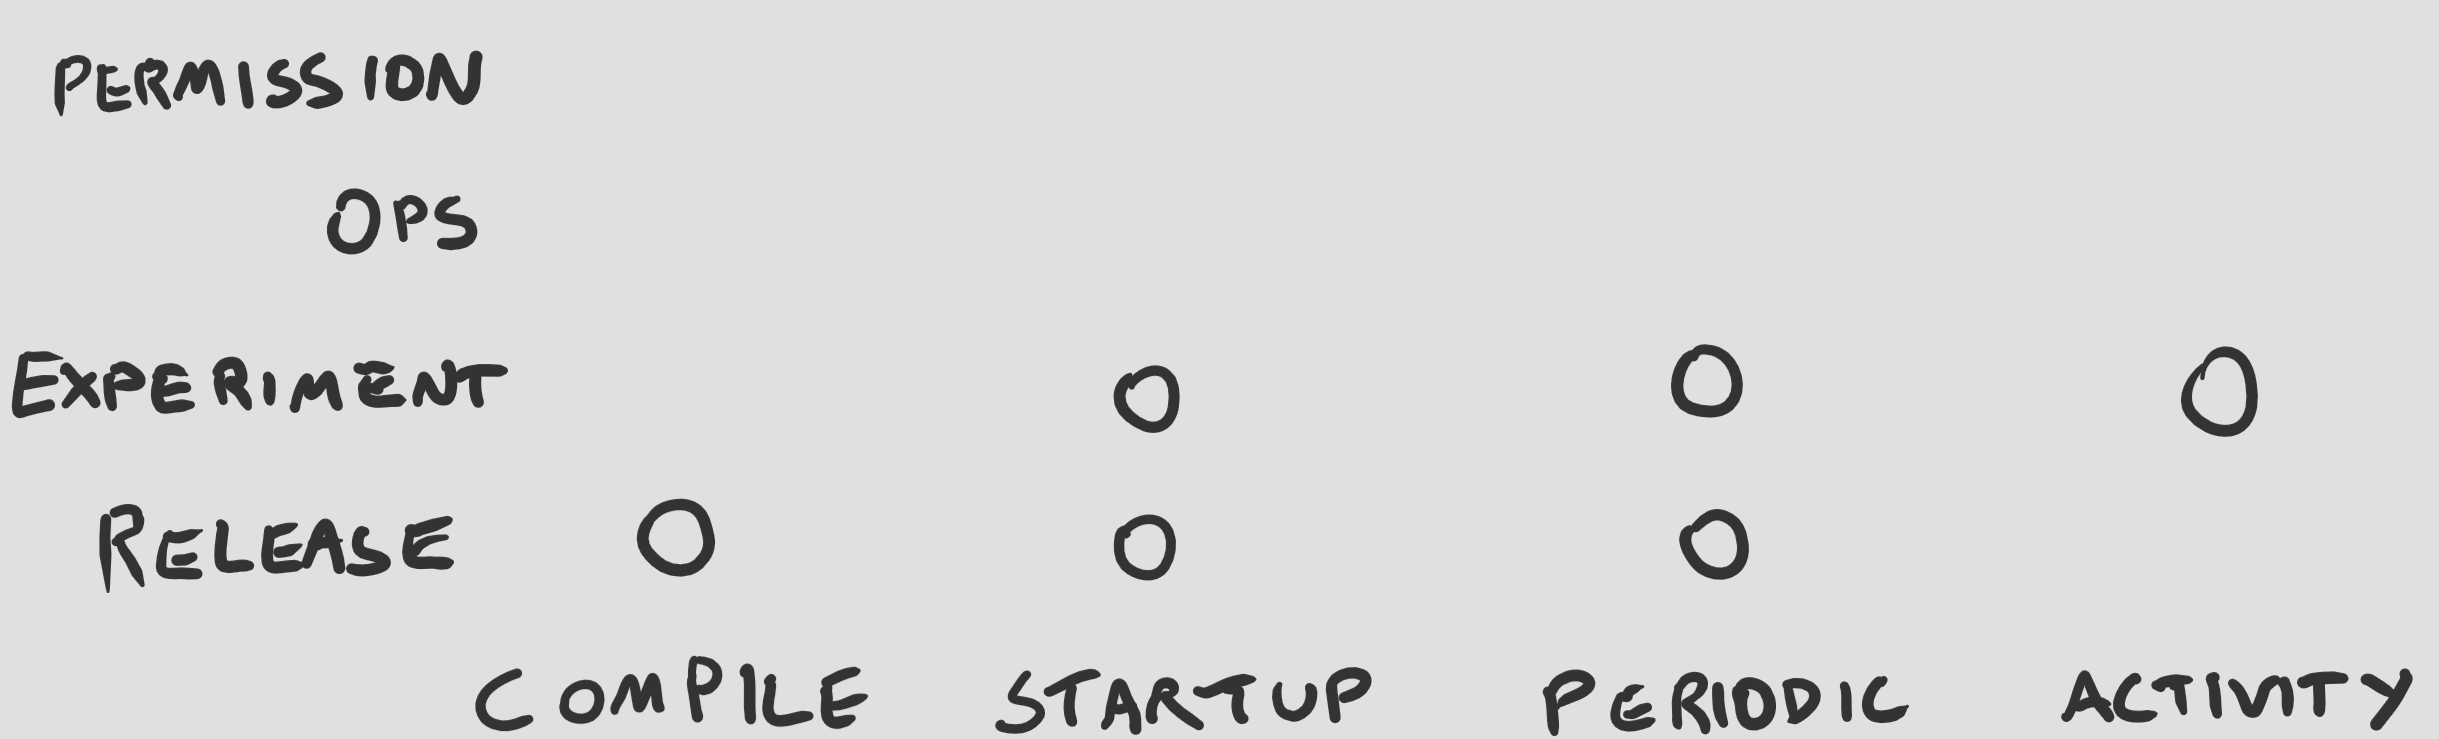
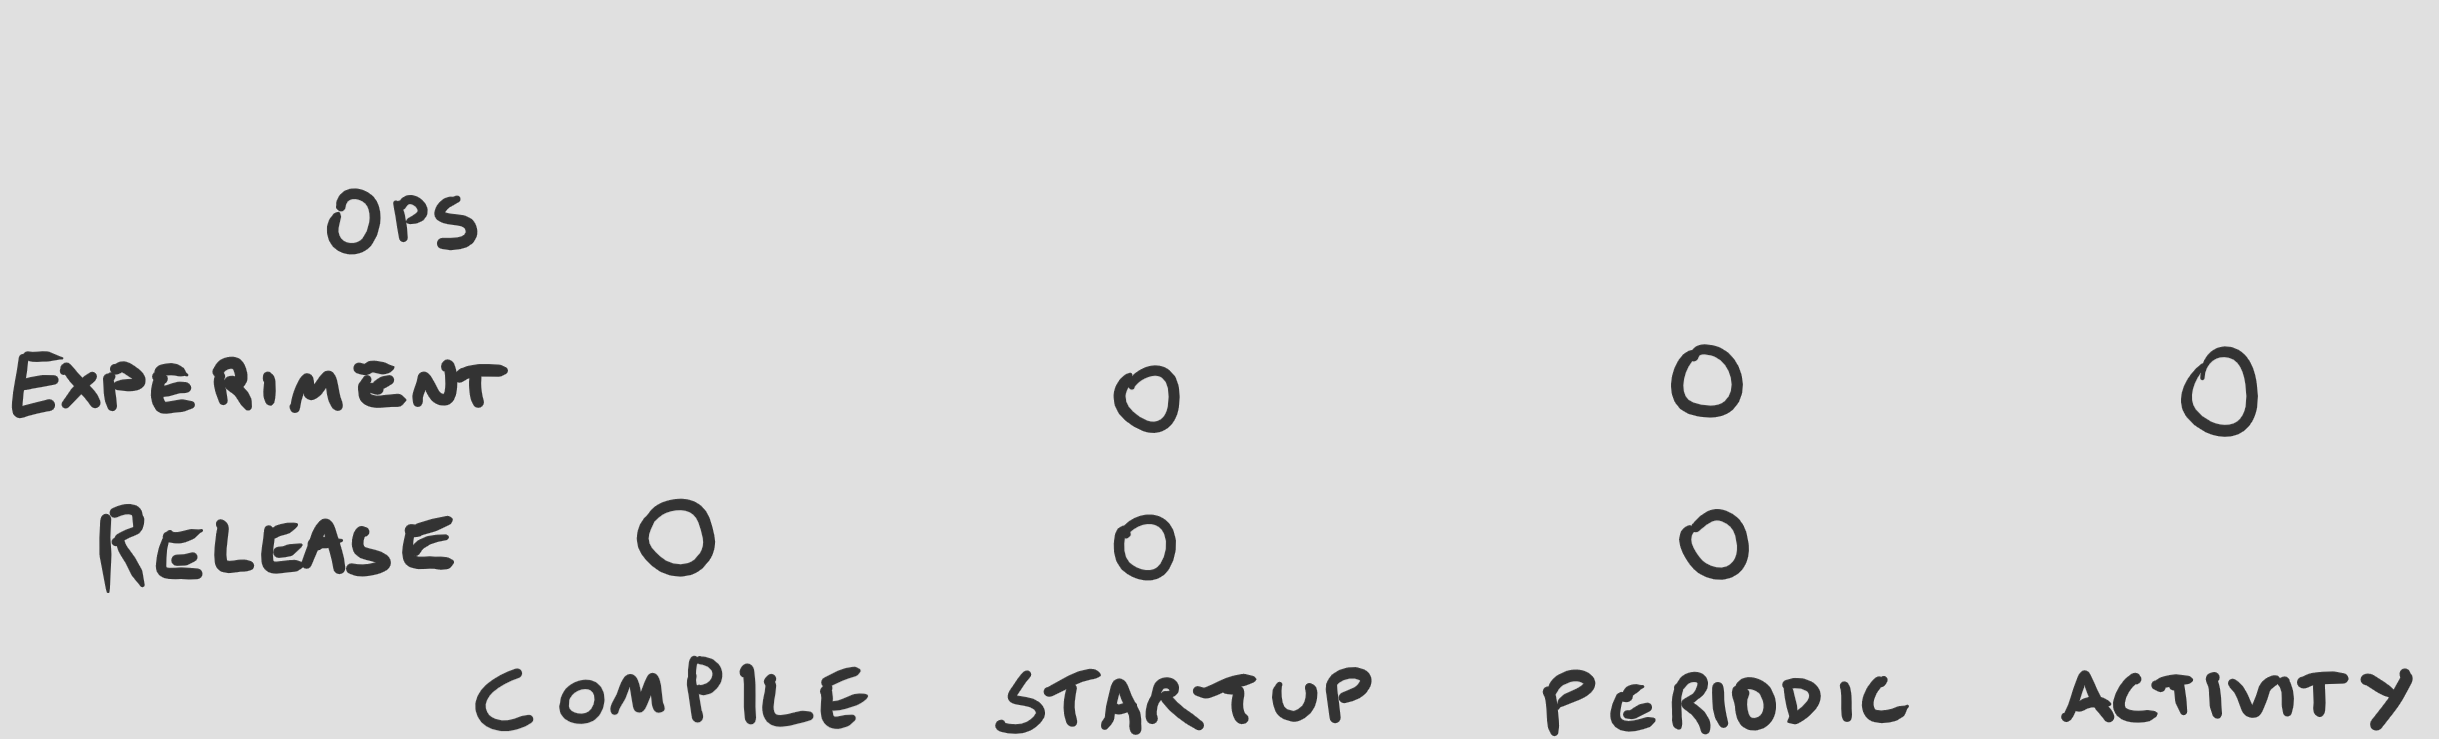
toggles: reorder most of the things...

Changed region(s): [[0.0, 0.0622, 0.2181, 0.1556]]

diff --git a/feature-toggles/slides.md b/feature-toggles/slides.md
@@ -142,20 +142,10 @@ Note:
 
 ![hp-branching-trunk-based](img/hp-branching-tbd.png) <!-- .element: class="no-border" -->
 Note:
-* compile-time to run-time toggles
+* compile-time to startup toggles
 * trunk based development
 * Single branch
 * config file with printer capabilities
-
-
-
->Getting rid of code branching will often be your biggest efficiency gain
-
-https://itrevolution.com/the-amazing-devops-transformation-of-the-hp-laserjet-firmware-team-gary-gruver/ <!-- .element: class="attribution" -->
-Note:
-* using branches as feature toggles
-* toggles were fairly static, so a config file in the repo
-* branching by abstraction
 
 
 
@@ -167,104 +157,6 @@ Note:
 
 
 
-## Toggle Types
-Note:
-* many dimensions to toggles
-* how often it changes (static -> dynamic)
-* how specific (user/group/all)
-
-
-
-![toggle-table](img/toggle-table-release.png)  <!-- .element: class="no-border" -->
-<!-- .slide: data-transition="slide-in none-out" -->
-Note:
-* the feature toggle
-
-
-
-![toggle-table](img/toggle-table-experiment.png)  <!-- .element: class="no-border" -->
-<!-- .slide: data-transition="none" -->
-Note:
-* AB testing
-
-
-
-![toggle-table](img/toggle-table-ops.png)  <!-- .element: class="no-border" -->
-<!-- .slide: data-transition="none" -->
-Note:
-* Performance
-* Possibly automated toggling
-* (the only) longer life toggle
-
-
-
-![toggle-table](img/toggle-table-permission.png)  <!-- .element: class="no-border" -->
-<!-- .slide: data-transition="none" -->
-Note:
-* can a user do something?
-
-
-
-![toggle-table](img/toggle-table-time.png)  <!-- .element: class="no-border" -->
-<!-- .slide: data-transition="none" -->
-Note:
-* compile: rare. sqlprofiler, things CANNOT be in prod
-* startup: microservices > websites
-* periodic: background updated
-* activity: checked every action, uses background probably
-
-
-
-![toggle-table](img/toggle-table-time-release.png)  <!-- .element: class="no-border" -->
-<!-- .slide: data-transition="none" -->
-Note:
-* compile time not great, needs redeploy
-* startup: change toggle, bounce service
-* periodic: change toggle, wait
-
-
-
-![toggle-table](img/toggle-table-time-experiment.png)  <!-- .element: class="no-border" -->
-<!-- .slide: data-transition="none" -->
-Note:
-* to a subset of users, usually
-* scale (risk): large=activity, small=startup
-
-
-
-![toggle-table](img/toggle-table-time-ops.png)  <!-- .element: class="no-border" -->
-<!-- .slide: data-transition="none" -->
-Note:
-* effects everyone
-* periodic check most likely
-
-
-
-![toggle-table](img/toggle-table-time-permission.png)  <!-- .element: class="no-border" -->
-<!-- .slide: data-transition="none" -->
-Note:
-* can a user/group do something?
-* activity/background
-* but...
-
-
-
-![toggle-table](img/toggle-table-time-permission-no.png)  <!-- .element: class="no-border" -->
-<!-- .slide: data-transition="none slide-out" -->
-Note:
-* dont!
-* toggles != authorization
-
-
-
-# Toggles are bad because...
-Note:
-* common reasons
-* horror stories covered!
-
-
-
-### ...I dont want this everywhere
 ```csharp
 if (_toggles.PowerPeg.Enabled)) {
     // ...
@@ -282,13 +174,43 @@ Note:
 
 
 ```csharp
-var container = new Container(c =>
+public interface IEmailConnector
 {
-    if (_toggles.EmailDispatchQueue.Enabled)
-        c.For<IEmailConnector>().Use<RabbitMqConnector>();
-    else
-        c.For<IEmailConnector>().Use<WebServiceConnector>();
-});
+    Task Dispatch(EmailMessage message);
+}
+```
+
+```csharp
+public class SoapServiceConnector : IEmailConnector
+{
+    // ...
+}
+
+public class RabbitMqConnector : IEmailConnector
+{
+    // ...
+}
+```
+<!-- .element: class="fragment" -->
+
+
+
+```csharp
+public class Startup
+{
+    public void Configure(IAppBuilder app)
+    {
+        var container = new Container(c =>
+        {
+            if (_toggles.EmailDispatchQueue.Enabled)
+                c.For<IEmailConnector>().Use<RabbitMqConnector>();
+            else
+                c.For<IEmailConnector>().Use<WebServiceConnector>();
+        });
+
+        // ...
+    }
+}
 ```
 Note:
 * great for startup toggles!
@@ -322,11 +244,14 @@ Note:
 
 
 ```javascript
-import  { toggled } from 'react-toggles' //this doesn't exist!
+import { toggled } from 'react-toggles' //this doesn't exist!
 
-const OneClickBuyButton = buyItem => <a onClick={buyItem}>Buy Now!</a>;
+const OneClickBuyButton = ({ buyItem, item }) =>
+    <a style="button highlight" onClick={() => buyItem(item.id)}>
+        Buy Now!
+    </a>
 
-export default toggled(toggles.OneClickEnabled)(OneClickBuyingButton)
+export default toggled(toggles.OneClickEnabled)(OneClickBuyButton)
 ```
 Note:
 * React
@@ -334,60 +259,62 @@ Note:
 
 
 
-# Testing is harder
+```javascript
+import { toggled } from 'react-toggles' //this doesn't exist!
+import OneClickBuyButton from './oneClickBuy'
+
+export default toggled(toggles.OneClickEnabled)(OneClickBuyButton)
+```
 Note:
-Is it?
+* React
+* react-toggles is invented!
 
 
 
-![testing-existing](img/testing-existing.png) <!-- .element: class="no-border" -->
+![toggle-table](img/toggle-table-time.png)  <!-- .element: class="no-border" -->
 <!-- .slide: data-transition="out-none" -->
 Note:
-* greg young: tests are immutable
-* old tests don't change (toggle off)
+* Release: switch everyone/group
+* Feature: switch for subset. AB testing.
+* Ops: performance
+* Permission:
+  * switch for user/group.
+  * dont do it.
+  * blurred boundaries
+  * use authorization service (identityserver, keycloak, etc.)
 
 
 
-![testing-new-toggle](img/testing-new-toggle.png) <!-- .element: class="no-border" -->
+![toggle-table](img/toggle-table-time-release.png)  <!-- .element: class="no-border" -->
+<!-- .slide: data-transition="none" -->
+Note:
+* compile time not great, needs redeploy
+* startup: change toggle, bounce service
+* periodic: change toggle, wait
+
+
+
+![toggle-table](img/toggle-table-time-experiment.png)  <!-- .element: class="no-border" -->
+<!-- .slide: data-transition="none" -->
+Note:
+* to a subset of users, usually
+* scale (risk): large=activity, small=startup
+
+
+
+![toggle-table](img/toggle-table-time-ops.png)  <!-- .element: class="no-border" -->
 <!-- .slide: data-transition="in-none" -->
 Note:
-* new tests (toggle on)
-* delete old when toggle removed!
-* manual testing basically the same
+* effects everyone
+* periodic check most likely
 
 
 
-# Adds Complexity
+![ops-toggle](img/ops-toggle.png) <!-- .element: class="no-border" -->
 Note:
-* but what doesn't?
-* at a previous job...
-
-
-
-![long-lived-branches](img/long-branches-1.png) <!-- .element: class="no-border" -->
-<!-- .slide: data-transition="out-none" -->
-Note:
-* monolith repo
-* 2x inhouse, 1x outsourced (incompetent)
-* day to day work
-* external branch always out of date
-
-
-
-![long-lived-branches](img/long-branches-2.png) <!-- .element: class="no-border" -->
-<!-- .slide: data-transition="in-none" -->
-Note:
-* priorities changed
-* multiple merge and revert
-* rebases!
-
-
-
-## Additional Complexity
-Note:
-* branching by abstraction itself is good design
-* don't have a long lived toggle
-* when to remove?
+* background process could cause load
+* usually not the root cause
+* monitoring started off manual
 
 
 
@@ -403,12 +330,6 @@ Note:
 Note:
 * we can see a toggle stopped being queried
 * and this one hasn't changed state
-
-
-
-# The Good
-Note:
-* phased rollout of a feature
 
 
 
@@ -498,11 +419,73 @@ Note:
 
 
 
-![ops-toggle](img/ops-toggle.png) <!-- .element: class="no-border" -->
+# Testing is harder
 Note:
-* background process could cause load
-* usually not the root cause
-* monitoring started off manual
+Is it?
+
+
+
+![testing-existing](img/testing-existing.png) <!-- .element: class="no-border" -->
+<!-- .slide: data-transition="out-none" -->
+Note:
+* greg young: tests are immutable
+* old tests don't change (toggle off)
+
+
+
+![testing-new-toggle](img/testing-new-toggle.png) <!-- .element: class="no-border" -->
+<!-- .slide: data-transition="in-none" -->
+Note:
+* new tests (toggle on)
+* delete old when toggle removed!
+* manual testing basically the same
+
+
+
+# Adds Complexity
+Note:
+* but what doesn't?
+* at a previous job...
+
+
+
+![long-lived-branches](img/long-branches-1.png) <!-- .element: class="no-border" -->
+<!-- .slide: data-transition="out-none" -->
+Note:
+* monolith repo
+* 2x inhouse, 1x outsourced (incompetent)
+* day to day work
+* external branch always out of date
+
+
+
+![long-lived-branches](img/long-branches-2.png) <!-- .element: class="no-border" -->
+<!-- .slide: data-transition="in-none" -->
+Note:
+* priorities changed
+* multiple merge and revert
+* rebases!
+
+
+
+## Additional Complexity
+Note:
+* branching by abstraction itself is good design
+* don't have a long lived toggle
+* when to remove?
+
+
+
+
+
+
+# The Good
+Note:
+* phased rollout of a feature
+
+
+
+
 
 
 
